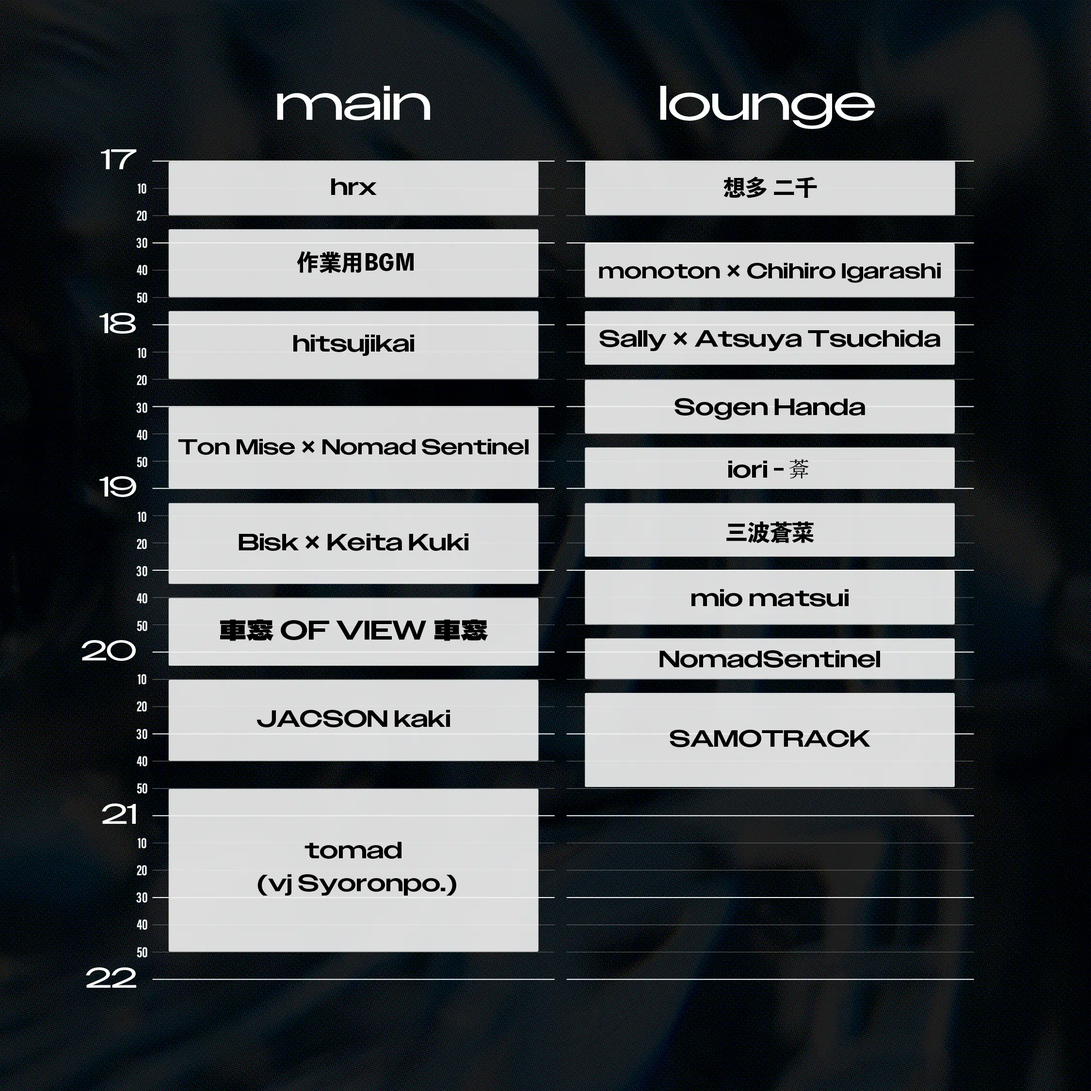
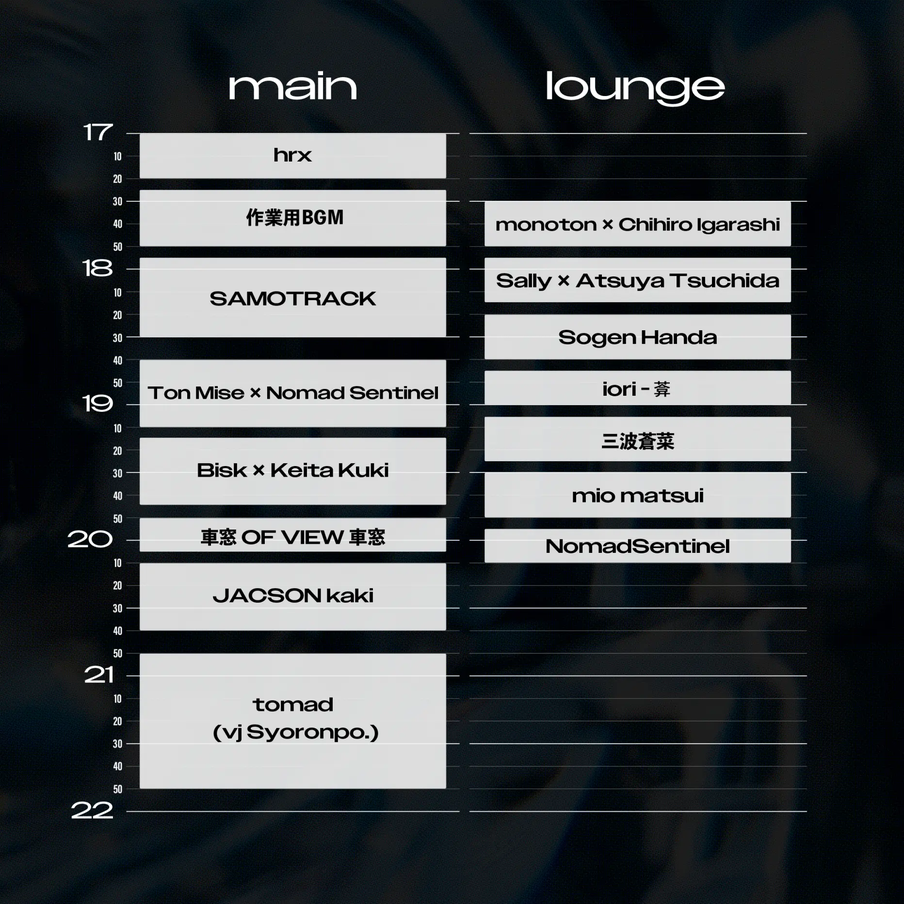
fix time table

diff --git a/index.html b/index.html
@@ -41,7 +41,6 @@
     <p>JACSON kaki [GUEST]</p>
     <p>hrx</p>
     <p>作業用BGM</p>
-    <p>hitsujikai</p>
     <p>Ton Mise × Nomad Sentinel</p>
     <p>Bisk × Keita Kuki</p>
     <p>車窓 OF VIEW 車窓</p>
@@ -170,20 +169,10 @@
         </div>
       </div>
       <div class="performer-frame">
-        <h2>hitsujikai</h2>
-        <div class="performer-detail">
-          <img src="img/artist-img/hitsujikai.webp" alt="" />
-          <p>
-            hitsujikaiは、羊を盗み見る。人を盗み見る。その間を見る。
-            羊は人の間、我らが見るのは人の間、二人による描く、創る、魅せるユニット。
-          </p>
-        </div>
-      </div>
-      <div class="performer-frame">
         <h2>Ton Mise</h2>
         <div class="performer-detail">
           <img src="img/artist-img/Ton_Mise.webp" alt="" />
-          <p>趣味で音楽を作ってます。eerik inpuj sound等、色々なレーベルから音源を出しています。</p>
+          <p>趣味で音楽を作ってます。eerik inpuj sound等、色々なレーベルから音源を出しています。本イベントでは音源での参加となる。</p>
         </div>
       </div>
       <div class="performer-frame">
@@ -328,7 +317,6 @@
       <p>JACSON kaki [GUEST]</p>
       <p>hrx</p>
       <p>作業用BGM</p>
-      <p>hitsujikai</p>
       <p>Ton Mise × Nomad Sentinel</p>
       <p>Bisk × Keita Kuki</p>
       <p>車窓 OF VIEW 車窓</p>
